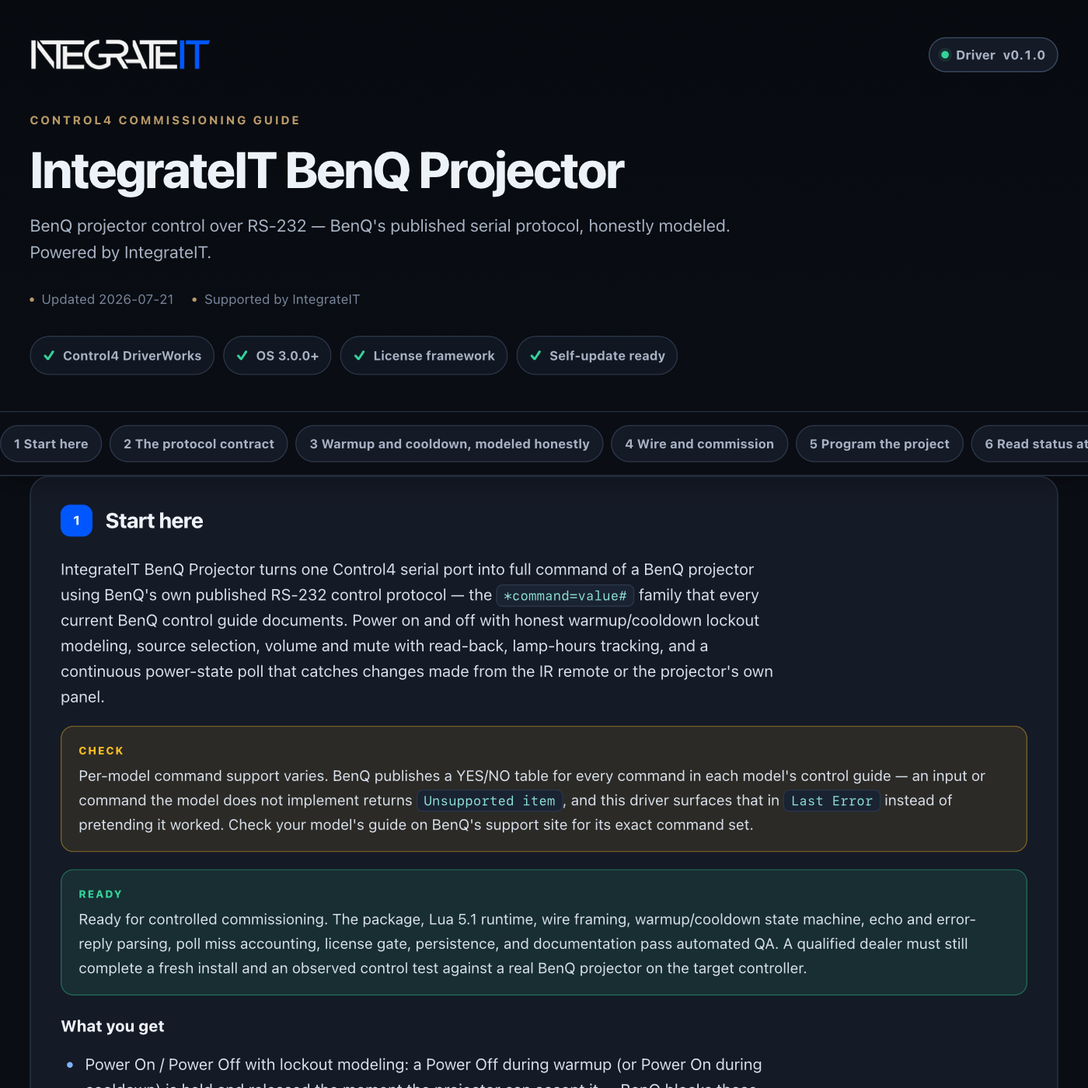
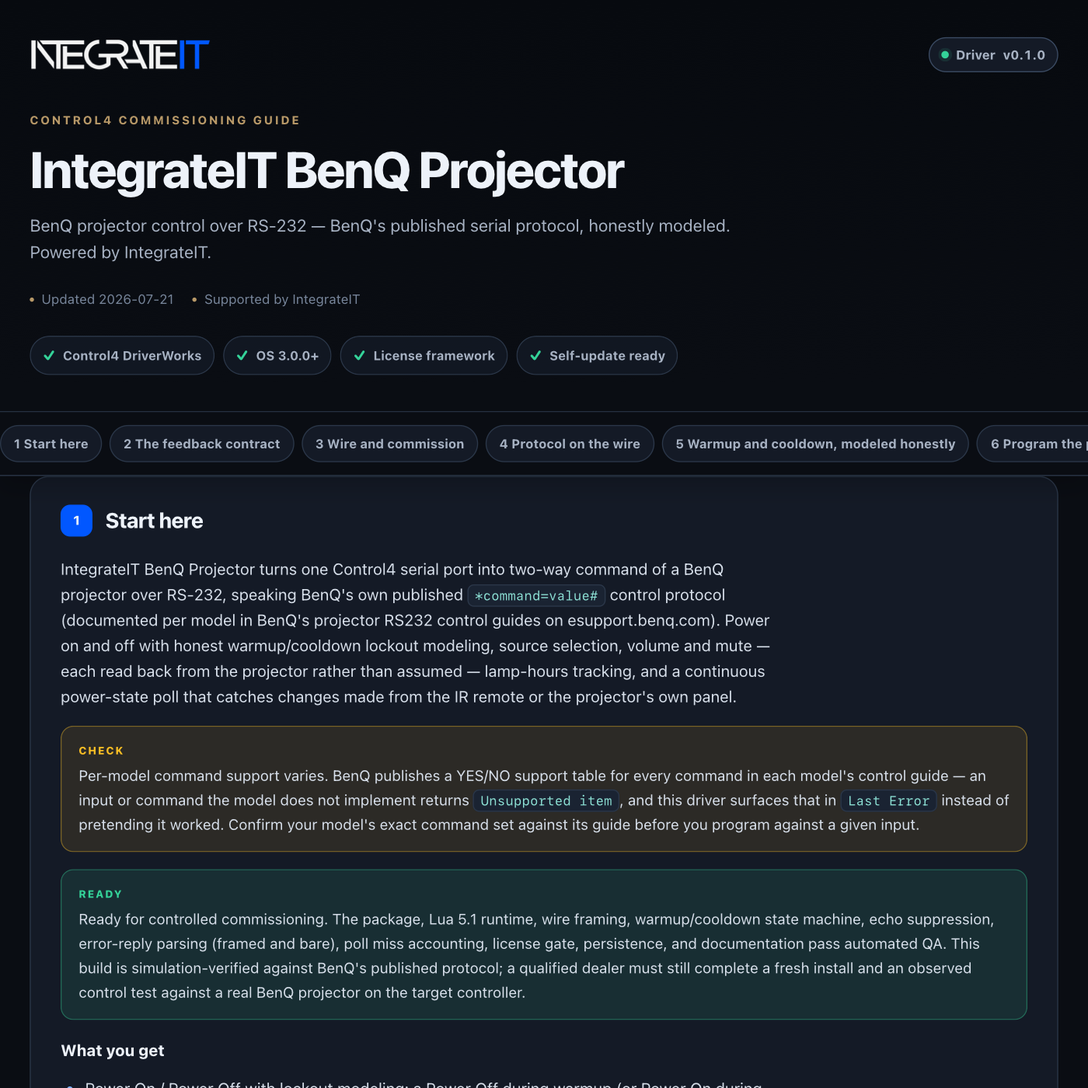
control4: publish driver channel (integrateit_benq_projector 0.1.1)

diff --git a/control4/integrateit_benq_projector/documentation.html b/control4/integrateit_benq_projector/documentation.html
@@ -179,13 +179,13 @@ td code{white-space:normal}
     <div class="wrap">
       <div class="brandbar">
[1 lines of base64/hex data omitted]
-        <span class="version"><span class="word">Driver</span> v0.1.0</span>
+        <span class="version"><span class="word">Driver</span> v0.1.1</span>
       </div>
       <p class="eyebrow">Control4 commissioning guide</p>
       <h1>IntegrateIT BenQ Projector</h1>
       <p class="sub">BenQ projector control over RS-232 — BenQ's published serial protocol, honestly modeled. Powered by IntegrateIT.</p>
       <div class="meta">
-        <span>Updated 2026-07-21</span>
+        <span>Updated 2026-07-26</span>
         <span>Supported by IntegrateIT</span>
       </div>
       <div class="readiness" aria-label="Driver capabilities">
@@ -198,29 +198,56 @@ td code{white-space:normal}
   </header>
 
   <div class="toc-wrap">
-    <nav class="toc wrap" aria-label="Documentation sections"><a href="#overview">1 Start here</a><a href="#protocol">2 The protocol contract</a><a href="#lockouts">3 Warmup and cooldown, modeled honestly</a><a href="#setup">4 Wire and commission</a><a href="#programming">5 Program the project</a><a href="#status">6 Read status at a glance</a><a href="#troubleshooting">7 Troubleshoot methodically</a><a href="#trust">8 Ownership, privacy, and licensing</a><a href="#reference">R Reference</a><a href="#licensing">L Licensing</a><a href="#updates">U Automatic updates</a><a href="#changelog">V Version history</a></nav>
+    <nav class="toc wrap" aria-label="Documentation sections"><a href="#overview">1 Start here</a><a href="#feedback">2 The feedback contract</a><a href="#setup">3 Wire and commission</a><a href="#protocol">4 Protocol on the wire</a><a href="#lockouts">5 Warmup and cooldown, modeled honestly</a><a href="#programming">6 Program the project</a><a href="#status">7 Read status at a glance</a><a href="#troubleshooting">8 Troubleshoot methodically</a><a href="#trust">9 Ownership, privacy, and licensing</a><a href="#reference">R Reference</a><a href="#licensing">L Licensing</a><a href="#updates">U Automatic updates</a><a href="#changelog">V Version history</a></nav>
   </div>
 
   <main class="wrap">
     <section class="card" id="overview" data-card="overview">
   <h2><span class="n">1</span> Start here</h2>
-  <p>IntegrateIT BenQ Projector turns one Control4 serial port into full command of a BenQ projector using BenQ's own published RS-232 control protocol — the <code>*command=value#</code> family that every current BenQ control guide documents. Power on and off with honest warmup/cooldown lockout modeling, source selection, volume and mute with read-back, lamp-hours tracking, and a continuous power-state poll that catches changes made from the IR remote or the projector's own panel.</p>
-  <div class="note warn">Per-model command support varies. BenQ publishes a YES/NO table for every command in each model's control guide — an input or command the model does not implement returns <code>Unsupported item</code>, and this driver surfaces that in <code>Last Error</code> instead of pretending it worked. Check your model's guide on BenQ's support site for its exact command set.</div>
-  <div class="note good">Ready for controlled commissioning. The package, Lua 5.1 runtime, wire framing, warmup/cooldown state machine, echo and error-reply parsing, poll miss accounting, license gate, persistence, and documentation pass automated QA. A qualified dealer must still complete a fresh install and an observed control test against a real BenQ projector on the target controller.</div>
+  <p>IntegrateIT BenQ Projector turns one Control4 serial port into two-way command of a BenQ projector over RS-232, speaking BenQ's own published <code>*command=value#</code> control protocol (documented per model in BenQ's projector RS232 control guides on esupport.benq.com). Power on and off with honest warmup/cooldown lockout modeling, source selection, volume and mute — each read back from the projector rather than assumed — lamp-hours tracking, and a continuous power-state poll that catches changes made from the IR remote or the projector's own panel.</p>
+  <div class="note warn">Per-model command support varies. BenQ publishes a YES/NO support table for every command in each model's control guide — an input or command the model does not implement returns <code>Unsupported item</code>, and this driver surfaces that in <code>Last Error</code> instead of pretending it worked. Confirm your model's exact command set against its guide before you program against a given input.</div>
+  <div class="note good">Ready for controlled commissioning. The package, Lua 5.1 runtime, wire framing, warmup/cooldown state machine, echo suppression, error-reply parsing (framed and bare), poll miss accounting, license gate, persistence, and documentation pass automated QA. This build is simulation-verified against BenQ's published protocol; a qualified dealer must still complete a fresh install and an observed control test against a real BenQ projector on the target controller.</div>
   <p><b>What you get</b></p>
   <ul>
-    <li>Power On / Power Off with lockout modeling: a Power Off during warmup (or Power On during cooldown) is held and released the moment the projector can accept it — BenQ blocks those commands with <code>Block item</code> if fired early</li>
-    <li>Source selection across BenQ's documented codes: HDMI 1-3, Computer (RGB/RGB2), Composite, S-Video, USB Reader, Network</li>
-    <li>Volume Up / Down and Mute On / Off, each followed by a read-back query so Composer state tracks the projector</li>
-    <li>Lamp hours into a <code>LAMP_HOURS</code> variable that persists across reboots</li>
+    <li>Power On / Power Off with lockout modeling: a Power Off during warmup (or Power On during cooldown) is held and released the moment the projector can accept it — BenQ answers <code>Block item</code> if either is fired early</li>
+    <li>Source selection across BenQ's documented codes: HDMI 1-3, Computer (RGB / RGB2), Composite, S-Video, USB Reader, Network</li>
+    <li>Volume Up / Down and Mute On / Off, each followed by a read-back query so Composer tracks the projector, not the command you sent</li>
+    <li>Lamp hours into a <code>LAMP_HOURS</code> variable that persists across controller reboots</li>
     <li>A power-state poll (default every 10 s) with <code>Projector Responding</code> / <code>Projector Lost</code> communication-health events</li>
-    <li>Full response parsing: command echo suppression plus BenQ's three documented error replies (<code>Block item</code>, <code>Unsupported item</code>, <code>Illegal format</code>) in <code>Last Error</code></li>
+    <li>Full response parsing: command echo suppression plus BenQ's three documented error replies (<code>Block item</code>, <code>Unsupported item</code>, <code>Illegal format</code>), surfaced whether they arrive framed or bare in <code>Last Error</code></li>
   </ul>
 </section>
 
+<section class="card" id="feedback" data-card="feedback">
+  <h2><span class="n">2</span> The feedback contract</h2>
+  <p>This driver never invents state. Everything it reports comes from what the projector actually answers:</p>
+  <ul>
+    <li>Every set is followed by its matching query — <b>Select Source</b> reads back <code>*sour=?#</code>, volume and mute read back <code>*vol=?#</code> / <code>*mute=?#</code> — so <code>Current Source</code>, <code>Volume</code>, and <code>Mute</code> track the projector rather than the command that was sent.</li>
+    <li>The power-state poll (<code>*pow=?#</code>) reconciles reality on its own interval, catching a power change made from the IR remote or the projector's front panel and firing the matching <code>Power On</code> / <code>Power Off</code> event.</li>
+    <li>Warmup and cooldown are the one thing the driver models rather than observes: BenQ does not report warmup or cooldown progress over RS-232, so those windows are configurable estimates (see <b>Warmup and cooldown</b> below). The poll corrects the modeled state once the window closes.</li>
+    <li>Per-model support means some commands this driver can send are not implemented on your model. The projector answers <code>Unsupported item</code>; the driver puts that in <code>Last Error</code> rather than assuming the command worked.</li>
+    <li>When three consecutive power polls go unanswered, <code>Communication</code> goes <code>Lost</code> and <code>Power State</code> drops to <code>Unknown</code> — a line nobody answers cannot honestly claim a power state, and anything showing one would be faking it.</li>
+    <li>After a controller reboot the driver claims no live power state: <code>Power State</code> restarts at <code>Unknown</code> and <code>Communication</code> at <code>No response yet</code> until the projector answers a poll. Only <code>Lamp Hours</code> is restored — from persistence — because it is a monotonic meter reading, not live state. <code>Current Source</code>, <code>Volume</code>, and <code>Mute</code> are never guessed; they carry their last read-back until a set or <b>Refresh Status</b> (while On) re-queries them, so re-prime them after a reboot rather than trusting a stale reading.</li>
+  </ul>
+</section>
+
+<section class="card" id="setup" data-card="setup">
+  <h2><span class="n">3</span> Wire and commission</h2>
+  <ol class="steps">
+    <li>Wire a controller or IO-extender RS-232 port to the projector's RS-232 port with a <b>crossover (null-modem) D-Sub 9 cable</b> (pin 2 RXD, pin 3 TXD, pin 5 GND crossed).</li>
+    <li>Match the serial settings: BenQ's factory default is <b>115200 baud, 8 data bits, no parity, 1 stop bit, no flow control</b> (9600-115200 selectable in the projector's menu). Configure the Control4 serial port accordingly.</li>
+    <li>Add <b>IntegrateIT BenQ Projector</b> to the project and bind <b>Projector RS-232 Port</b> (binding 1) to that port in Connections.</li>
+    <li>Set <b>Warmup Time (s)</b> and <b>Cooldown Time (s)</b> to your model's real timings (defaults: 90 s each).</li>
+    <li>Run <b>Refresh Status</b> from the Actions tab and confirm <code>Communication</code> flips to <code>Responding</code> and <code>Power State</code> reports the truth.</li>
+    <li>With the projector On, set <b>Source</b> and exercise <b>Select Source</b>, <b>Volume Up / Down</b>, and <b>Mute On / Off</b>; run <b>Query Lamp Hours</b> and confirm the <code>Lamp Hours</code> property fills in.</li>
+    <li>Confirm the setup with <b>Print Configuration</b> — it writes the current state and config to the Lua output window and proves the driver is alive.</li>
+  </ol>
+  <div class="note">On many BenQ models the RS-232 port is inactive in the deepest standby mode. If polls go unanswered with the projector off, set the standby / monitor-out option per your model's manual so the control port stays awake.</div>
+</section>
+
 <section class="card" id="protocol" data-card="protocol">
-  <h2><span class="n">2</span> The protocol contract</h2>
-  <p>Every command is plain printable ASCII framed by carriage returns: <code>&lt;CR&gt;*command=value#&lt;CR&gt;</code>. Reads use <code>?</code> as the value. The projector first echoes the command bytes, then answers with an uppercase status frame.</p>
+  <h2><span class="n">4</span> Protocol on the wire</h2>
+  <p>Every command is plain printable ASCII framed by carriage returns: <code>&lt;CR&gt;*command=value#&lt;CR&gt;</code>. Reads use <code>?</code> as the value. The projector first echoes the command bytes (lowercase, suppressed here), then answers with an uppercase status frame.</p>
   <table>
     <tr><th>Wire frame</th><th>Meaning</th></tr>
     <tr><td><code>&lt;CR&gt;*pow=on#&lt;CR&gt;</code></td><td>Power on</td></tr>
@@ -231,49 +258,38 @@ td code{white-space:normal}
     <tr><td><code>&lt;CR&gt;*mute=on#&lt;CR&gt;</code></td><td>Mute audio</td></tr>
     <tr><td><code>&lt;CR&gt;*ltim=?#&lt;CR&gt;</code></td><td>Query lamp hours → <code>*LTIM=1543#</code></td></tr>
   </table>
-  <p>Error replies the driver parses and surfaces in <code>Last Error</code>:</p>
+  <p>Error replies the driver parses and surfaces in <code>Last Error</code>, naming the command that drew them:</p>
   <ul>
     <li><code>Block item</code> — the command is valid but refused in the current state (warmup, cooldown, or powered off)</li>
     <li><code>Unsupported item</code> — this model does not implement the command (see the model's own control guide)</li>
     <li><code>Illegal format</code> — the frame was malformed</li>
   </ul>
+  <div class="note warn">BenQ's three error replies do not always arrive as <code>*...#</code> frames. The control guide's command-table preamble says the projector "will echo Illegal format / Unsupported item / Block item" as bare, CR-terminated text with no leading <code>*</code> or trailing <code>#</code>. The receive parser tokenizes both shapes — framed and bare, even when split or merged across serial chunks — so an honest error always reaches <code>Last Error</code> instead of being dropped on the floor.</div>
   <p><b>Command Spacing</b> paces the queue: the driver never writes two frames closer together than the configured gap (default 350 ms), so the projector can answer each command before the next arrives. Commands issued faster are queued in order, never dropped.</p>
 </section>
 
 <section class="card" id="lockouts" data-card="lockouts">
-  <h2><span class="n">3</span> Warmup and cooldown, modeled honestly</h2>
-  <p>BenQ projectors refuse <code>pow=off</code> while warming up and <code>pow=on</code> while cooling down — the real hardware answers <code>Block item</code>. Instead of firing commands into a guaranteed rejection, this driver models the lockout windows:</p>
+  <h2><span class="n">5</span> Warmup and cooldown, modeled honestly</h2>
+  <p>BenQ projectors refuse <code>pow=off</code> while warming up and <code>pow=on</code> while cooling down — the real hardware answers <code>Block item</code>. Rather than fire a command into a guaranteed rejection, this driver models the lockout windows:</p>
   <ul>
-    <li>After a power-on hits the wire the state becomes <b>Warming Up</b> for <code>Warmup Time (s)</code>. A Power Off issued in that window is <b>held</b> (Status says so) and released automatically when warmup completes.</li>
-    <li>After a power-off hits the wire the state becomes <b>Cooling Down</b> for <code>Cooldown Time (s)</code>. A Power On issued in that window is held and released the same way.</li>
-    <li>One power intent is held at a time — the latest wins. Source, volume, and mute commands are refused with a named reason in <code>Last Error</code> unless the projector is <b>On</b>, because the projector would <code>Block item</code> them anyway.</li>
+    <li>After a power-on reaches the wire, <code>Power State</code> becomes <b>Warming Up</b> for <code>Warmup Time (s)</code>. A Power Off issued in that window is <b>held</b> (Status says so) and released automatically when warmup completes.</li>
+    <li>After a power-off reaches the wire, <code>Power State</code> becomes <b>Cooling Down</b> for <code>Cooldown Time (s)</code>. A Power On issued in that window is held and released the same way.</li>
+    <li>Exactly one power intent is held at a time, and the latest press wins: a Power On during warmup cancels a Power Off held earlier in the same window, so the projector never powers down against your last action (symmetric on cooldown).</li>
+    <li>Source, volume, and mute are refused locally — with a named reason in <code>Last Error</code> — unless <code>Power State</code> is <b>On</b>, because the projector would <code>Block item</code> them in any other state anyway.</li>
   </ul>
-  <p>BenQ does not report warmup progress over RS-232, so the two windows are configurable estimates — set them to your model's real lamp/laser warmup and fan cooldown times. The power poll reconciles the true state as soon as the projector reports it, including changes made from the IR remote or the projector's own control panel.</p>
-</section>
-
-<section class="card" id="setup" data-card="setup">
-  <h2><span class="n">4</span> Wire and commission</h2>
-  <ol class="steps">
-    <li>Wire a controller or IO-extender RS-232 port to the projector's RS-232 port with a <b>crossover (null-modem) D-Sub 9 cable</b> (pin 2 RXD, pin 3 TXD, pin 5 GND crossed).</li>
-    <li>Match the serial settings: BenQ's factory default is <b>115200 baud, 8 data bits, no parity, 1 stop bit, no flow control</b> (9600-115200 selectable in the projector's menu). Configure the Control4 serial port accordingly.</li>
-    <li>Add <b>IntegrateIT BenQ Projector</b> to the project and bind <b>Projector RS-232 Port</b> (binding 1) to that port in Connections.</li>
-    <li>Set <b>Warmup Time (s)</b> and <b>Cooldown Time (s)</b> to your model's real timings (defaults: 90 s each).</li>
-    <li>Run <b>Refresh Status</b> from the Actions tab and confirm <code>Communication</code> flips to <code>Responding</code> and <code>Power State</code> reports the truth.</li>
-    <li>Set <b>Source</b> and exercise <b>Select Source</b>, <b>Volume Up/Down</b>, and <b>Mute On/Off</b> with the projector On; run <b>Query Lamp Hours</b> and confirm the <code>Lamp Hours</code> property.</li>
-    <li>Confirm the setup with <b>Print Configuration</b>.</li>
-  </ol>
-  <div class="note">On many BenQ models the RS-232 port is inactive in the deepest standby mode. If polls go unanswered with the projector off, set the standby / monitor-out setting per your model's manual so the control port stays awake.</div>
+  <p>BenQ does not report warmup or cooldown progress over RS-232, so both windows are configurable estimates — set <code>Warmup Time (s)</code> and <code>Cooldown Time (s)</code> to your model's real lamp/laser warmup and fan cooldown. During a modeled window the driver keeps its own state even if the projector already reports <code>POW=ON</code>: the window, not the raw reply, decides when the next power command is allowed. Once the window closes, the power poll reconciles the true state.</p>
+  <div class="note">Power On and Power Off actuate the projector's real lamp or laser. The lockout windows and Command Spacing exist partly to keep automation from thrashing the light source with rapid on/off cycles — leave them at realistic values rather than flooring them to make a demo feel snappy.</div>
 </section>
 
 <section class="card" id="programming" data-card="programming">
-  <h2><span class="n">5</span> Program the project</h2>
+  <h2><span class="n">6</span> Program the project</h2>
   <table>
     <tr><th>Event</th><th>Meaning</th></tr>
     <tr><td><code>Power On</code></td><td>The projector reached (or was discovered in) the On state</td></tr>
     <tr><td><code>Power Off</code></td><td>The projector reached (or was discovered in) the Off state</td></tr>
     <tr><td><code>Warmup Started</code></td><td>A power-on was written; the warmup lockout window began</td></tr>
     <tr><td><code>Cooldown Started</code></td><td>A power-off was written; the cooldown lockout window began</td></tr>
-    <tr><td><code>Projector Responding</code></td><td>The projector answered on the serial line (first response, or recovery)</td></tr>
+    <tr><td><code>Projector Responding</code></td><td>The projector answered on the serial line (first response, or recovery after Lost)</td></tr>
     <tr><td><code>Projector Lost</code></td><td>Three consecutive power polls went unanswered</td></tr>
   </table>
   <table>
@@ -284,25 +300,26 @@ td code{white-space:normal}
     <tr><td><code>MUTE</code></td><td>BOOL</td><td>1 while the projector reports audio muted</td></tr>
     <tr><td><code>LAMP_HOURS</code></td><td>NUMBER</td><td>Lamp / light-source hours (persists across reboots)</td></tr>
   </table>
+  <p>A common recipe: on <b>Warmup Started</b>, run project logic that dims the room and lowers the screen; on <b>Power Off</b>, reverse it. Fire "movie night" off <b>Power On</b> rather than off your own button press, so it also triggers when someone powers the projector from the IR remote. Gate any source/volume programming on <code>POWER_STATE</code> being <code>On</code> — the driver already refuses those commands otherwise, but checking the variable keeps your logic honest.</p>
   <p>Control commands are gated by the license: under Strict enforcement an unlicensed controller writes nothing to the serial port — not even polls; the default Lenient mode allows commissioning while <code>License Status</code> carries the nag.</p>
 </section>
 
 <section class="card" id="status" data-card="status">
-  <h2><span class="n">6</span> Read status at a glance</h2>
+  <h2><span class="n">7</span> Read status at a glance</h2>
   <table>
     <tr><th>Property</th><th>Healthy result</th><th>What to do otherwise</th></tr>
     <tr><td><code>Communication</code></td><td><code>Responding</code></td><td>Check the crossover cable, baud match, and the projector's standby setting</td></tr>
     <tr><td><code>Power State</code></td><td>Matches the projector</td><td><code>Unknown</code> means nobody has answered yet — run Refresh Status</td></tr>
     <tr><td><code>Current Source</code> / <code>Volume</code> / <code>Mute</code></td><td>Last read-back values</td><td>They update on each set's read-back and on Refresh Status while On</td></tr>
     <tr><td><code>Lamp Hours</code></td><td>Counts up over the lamp's life</td><td>Run Query Lamp Hours; some laser models report light-source time differently</td></tr>
-    <tr><td><code>Last Error</code></td><td><code>None</code></td><td>The named reason: a lockout refusal or a Block / Unsupported / Illegal reply</td></tr>
+    <tr><td><code>Last Error</code></td><td><code>None</code></td><td>The named reason: a lockout refusal, or a Block / Unsupported / Illegal reply</td></tr>
     <tr><td><code>License Status</code></td><td>Activated, or Lenient during commissioning</td><td>Enter a key before selecting Strict enforcement</td></tr>
   </table>
-  <p><b>Print Configuration</b> writes the power state, held intents, communication health, source/volume/mute/lamp readings, poll and spacing configuration, and the IntegrateIT identity to the Lua output window. It never prints the license key.</p>
+  <p><b>Print Configuration</b> writes the power state, any held power intent, communication health, the source / volume / mute / lamp readings, poll and spacing configuration, and the IntegrateIT identity to the Lua output window. It never prints the license key.</p>
 </section>
 
 <section class="card" id="troubleshooting" data-card="troubleshooting">
-  <h2><span class="n">7</span> Troubleshoot methodically</h2>
+  <h2><span class="n">8</span> Troubleshoot methodically</h2>
   <table>
     <tr><th>Symptom</th><th>Likely cause</th><th>Resolution</th></tr>
     <tr><td><code>Communication: Lost</code>, nothing works</td><td>Straight-through cable, baud mismatch, or RS-232 dead in standby</td><td>Use a crossover cable, match 115200 8N1, enable the standby control setting</td></tr>
@@ -313,17 +330,18 @@ td code{white-space:normal}
     <tr><td>Volume/source refused with a named reason</td><td>Projector is not On</td><td>Power on first; the driver refuses locally instead of collecting <code>Block item</code> replies</td></tr>
     <tr><td>Rapid sequences seem slow</td><td>Command Spacing pacing the wire</td><td>That is deliberate; lower <code>Command Spacing (ms)</code> only if the projector keeps up</td></tr>
   </table>
-  <div class="note warn">This v0.1.0 build is RS-232 only. BenQ's RS232-over-LAN transport (raw TCP port 8000) speaks the identical command set but is <b>unauthenticated by design</b> — any host on the network can control the projector. When LAN support ships, put the projector on a trusted/segmented AV VLAN.</div>
+  <div class="note">If none of these restores control, run <b>Print Configuration</b>, note the projector model and its control-guide command table, and send that output to IntegrateIT support at support@integrateit.tech · (913) 804-7575.</div>
 </section>
 
 <section class="card" id="trust" data-card="trust">
-  <h2><span class="n">8</span> Ownership, privacy, and licensing</h2>
-  <p>This package is an original IntegrateIT implementation of BenQ's published RS-232 control protocol (BenQ documents it precisely so control systems can drive their projectors, and markets Crestron/AMX/PJLink integration on the same ports). It does not bundle another vendor's runtime, source code, brand assets, trial system, or license. Driver engineering, Control4 integration, documentation, QA, licensing, updates, and support are provided by IntegrateIT.</p>
-  <p>The driver sends projector commands to your BenQ over the bound serial port and nothing anywhere else. The shared IntegrateIT license and update services use the controller identity, driver slug, version, configured license key, and update channel as documented in the reference below.</p>
-  <p>Lenient mode allows commissioning without an activated key and keeps <code>License Status</code> visible. Strict mode blocks all serial control until the Ops Portal has minted and validated a key for that controller. Installing this package does not itself mint or activate a controller license.</p>
+  <h2><span class="n">9</span> Ownership, privacy, and licensing</h2>
+  <p>This package is an original IntegrateIT implementation of BenQ's published RS-232 control protocol — the <code>*command=value#</code> command family BenQ documents publicly, per model, so control systems can drive their projectors. It bundles no other vendor's runtime, source code, brand assets, trial system, or license. BenQ is a trademark of BenQ Corporation; IntegrateIT is not affiliated with BenQ, and this driver is not a BenQ product. Driver engineering, Control4 integration, documentation, QA, licensing, updates, and support are provided by IntegrateIT.</p>
+  <p>The driver sends projector commands to your BenQ over the bound serial port and nothing anywhere else — no projector data leaves the controller. The RS-232 protocol has no login, password, or encryption; physical access to the serial port is its entire security model, which is one more reason the wiring belongs inside your rack. The shared IntegrateIT license and update services use the controller identity, driver slug, version, configured license key, and update channel as documented in the reference below; the license key is never written to the log.</p>
+  <div class="note warn">This v0.1.0 build is RS-232 only. BenQ projectors also expose the same command set over LAN as raw TCP on port 8000 with <b>no authentication</b> — any host that can reach the projector can control it. The planned RS232-over-LAN transport will use that port, so wherever BenQ LAN control is enabled (on the projector today, or later through this driver) put the projector on a trusted, segmented AV VLAN, never a routable user network.</div>
+  <p>Lenient mode allows commissioning without an activated key and keeps <code>License Status</code> visible. Strict mode blocks all serial control — including polls — until the Ops Portal has minted and validated a key for that controller. Installing this package does not itself mint or activate a controller license.</p>
 <section class="card" id="reference" data-card="reference">
   <h2><span class="n">R</span> Reference</h2>
-  <p>Generated from the driver manifest at build time — always matches this build (v0.1.0).</p>
+  <p>Generated from the driver manifest at build time — always matches this build (v0.1.1).</p>
   <h3>Properties</h3>
   <table>
     <tr><th>Property</th><th>Type</th><th>Default</th><th>Description</th></tr>
@@ -448,7 +466,9 @@ td code{white-space:normal}
     <section class="card" id="changelog" data-card="changelog">
   <h2><span class="n">V</span> Version history</h2>
   <div class="chg">
-    <div class="rel"><b>v0.1.0</b> <span class="pill green">current</span><span class="d">2026-07-21</span>
+    <div class="rel"><b>v0.1.1</b> <span class="pill green">current</span><span class="d">2026-07-26</span>
+      <ul><li>Documentation rebuilt to the IntegrateIT commissioning-guide standard: uniform sections, honest contracts, verified claim-by-claim against the code.</li></ul></div>
+    <div class="rel"><b>v0.1.0</b><span class="d">2026-07-21</span>
       <ul><li>Initial release: RS-232 control per BenQ's published *command=value# protocol - power on/off with warmup/cooldown lockout modeling (held power intents released when the window closes), source selection across BenQ's documented codes, volume/mute with read-back queries, lamp-hours into a persisted LAMP_HOURS variable, continuous power-state polling with Responding/Lost communication events, and full response parsing (echo suppression plus the Block item / Unsupported item / Illegal format error replies).</li><li>Fix (pre-ship review): recognize BenQ's error replies when they arrive as BARE, UNFRAMED text. The guide's command-table preamble says the projector "will echo Illegal format / Unsupported item / Block item" - CR-terminated, with no *...# framing. The receive parser only matched *...# frames and its buffer trim actively discarded any non-* residue, so a real projector's unframed error echo was dropped and Last Error never lit. The RX path now tokenizes both shapes (framed *...# and bare CR-delimited text), split or merged across serial chunk boundaries, so honest error surfacing works against hardware. Added tests: a bare Block item echo, and a bare Unsupported item echo split across two serial deliveries.</li><li>Fix (pre-ship review): honor "latest press wins" during a power-toggle race. A Power On pressed during warmup (or a Power Off during cooldown) short-circuited on the "already in this state" branch WITHOUT clearing a previously held opposite intent, so an earlier held Power Off would still fire when warmup completed and drive the projector down against the user's last action (symmetric on cooldown). The redundant-press branches now clear the stale held intent. Added tests: On-&gt;Off-&gt;On during warmup settles On with no pow=off written; the symmetric cooldown case.</li></ul></div>
   </div>
 </section>

diff --git a/control4/integrateit_benq_projector/CHANGELOG.md b/control4/integrateit_benq_projector/CHANGELOG.md
@@ -1,5 +1,8 @@
 # Changelog — IntegrateIT BenQ Projector
 
+## [0.1.1] - 2026-07-26
+- Documentation rebuilt to the IntegrateIT commissioning-guide standard: uniform sections, honest contracts, verified claim-by-claim against the code.
+
 ## [0.1.0] - 2026-07-21
 - Initial release: RS-232 control per BenQ's published *command=value# protocol - power on/off with warmup/cooldown lockout modeling (held power intents released when the window closes), source selection across BenQ's documented codes, volume/mute with read-back queries, lamp-hours into a persisted LAMP_HOURS variable, continuous power-state polling with Responding/Lost communication events, and full response parsing (echo suppression plus the Block item / Unsupported item / Illegal format error replies).
 - Fix (pre-ship review): recognize BenQ's error replies when they arrive as BARE, UNFRAMED text. The guide's command-table preamble says the projector "will echo Illegal format / Unsupported item / Block item" - CR-terminated, with no *...# framing. The receive parser only matched *...# frames and its buffer trim actively discarded any non-* residue, so a real projector's unframed error echo was dropped and Last Error never lit. The RX path now tokenizes both shapes (framed *...# and bare CR-delimited text), split or merged across serial chunk boundaries, so honest error surfacing works against hardware. Added tests: a bare Block item echo, and a bare Unsupported item echo split across two serial deliveries.
